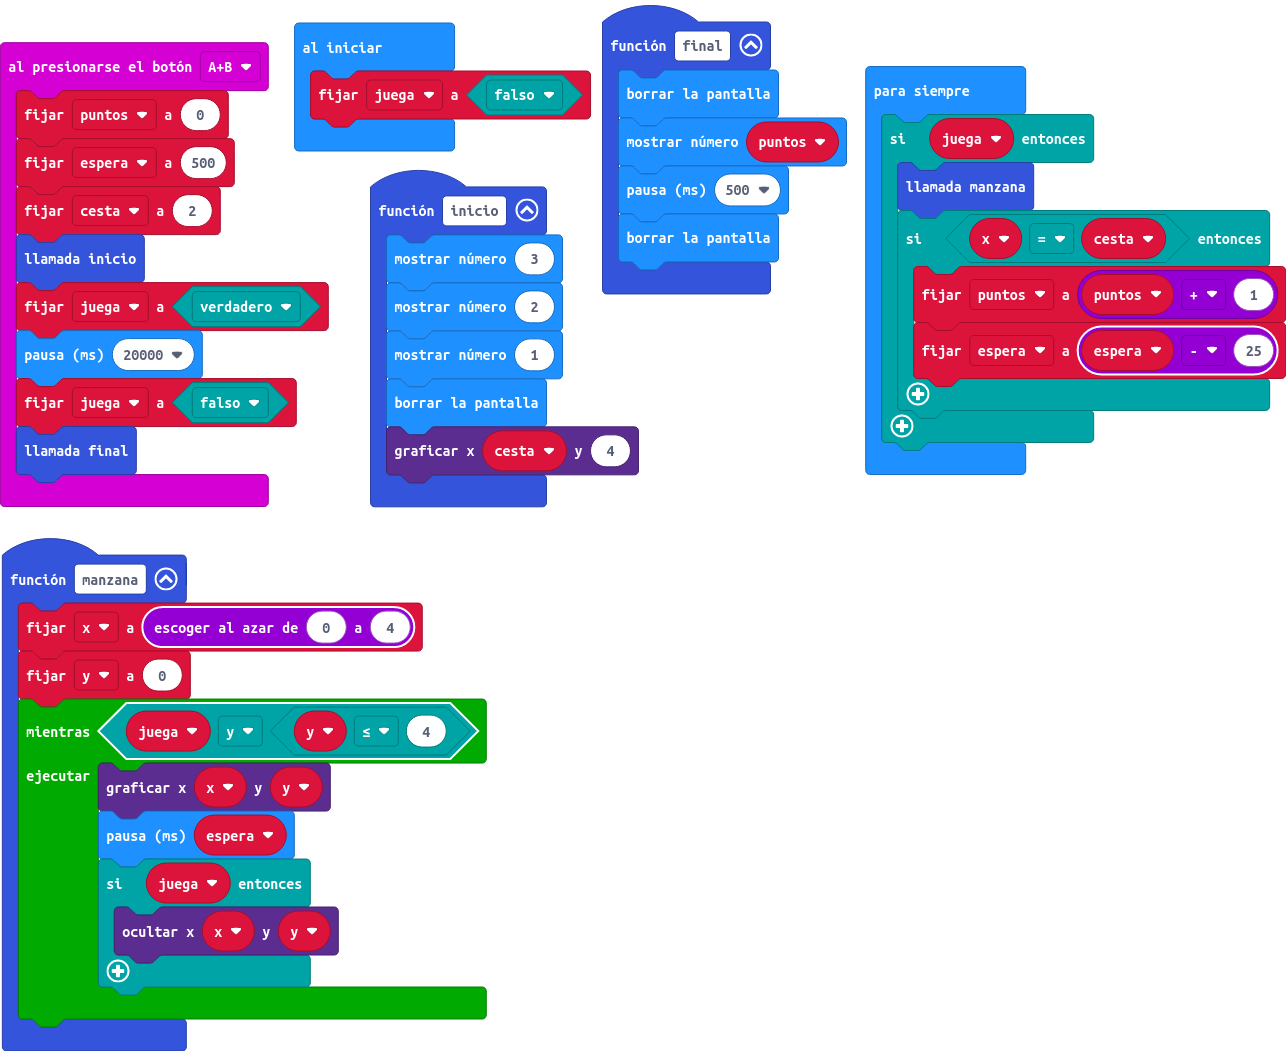
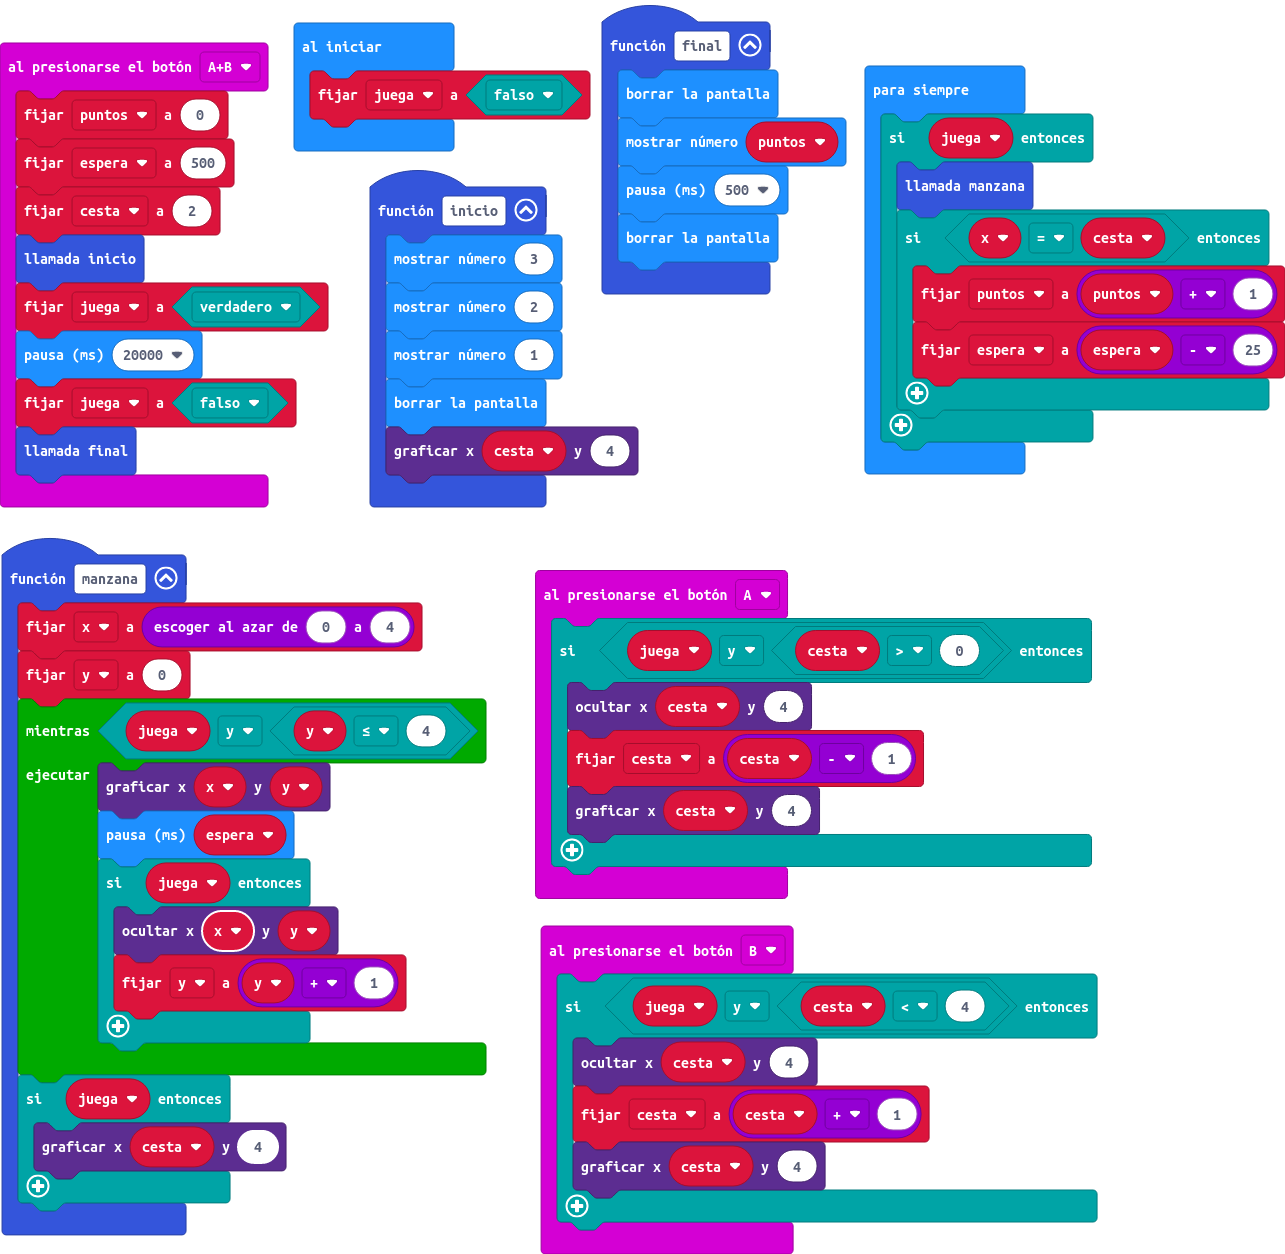
Actualizar main.blocks, main.ts

diff --git a/main.ts b/main.ts
@@ -4,6 +4,13 @@ function final () {
     basic.pause(500)
     basic.clearScreen()
 }
+input.onButtonPressed(Button.A, function () {
+    if (juega && cesta > 0) {
+        led.unplot(cesta, 4)
+        cesta = cesta - 1
+        led.plot(cesta, 4)
+    }
+})
 function inicio () {
     basic.showNumber(3)
     basic.showNumber(2)
@@ -21,6 +28,13 @@ input.onButtonPressed(Button.AB, function () {
     juega = false
     final()
 })
+input.onButtonPressed(Button.B, function () {
+    if (juega && cesta < 4) {
+        led.unplot(cesta, 4)
+        cesta = cesta + 1
+        led.plot(cesta, 4)
+    }
+})
 function manzana () {
     x = randint(0, 4)
     y = 0
@@ -29,7 +43,11 @@ function manzana () {
         basic.pause(espera)
         if (juega) {
             led.unplot(x, y)
+            y = y + 1
         }
+    }
+    if (juega) {
+        led.plot(cesta, 4)
     }
 }
 let y = 0
